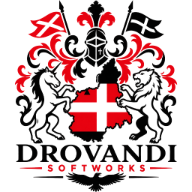
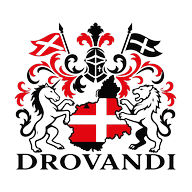
Rebranding a Lorenzo Drovandi: marca personal en primera persona y espanol neutro

diff --git a/index.html b/index.html
@@ -3,21 +3,23 @@
 <head>
   <meta charset="UTF-8" />
   <meta name="viewport" content="width=device-width, initial-scale=1.0" />
-  <title>Drovandi Softworks · Desarrollador Full-Stack · Portfolio</title>
-  <meta name="description" content="Drovandi Softworks, desarrollador full-stack especializado en software a medida, plantas de hormigón y tecnologías modernas. Proyectos, servicios y contacto." />
-  <meta name="keywords" content="Drovandi Softworks, desarrollador full-stack, portfolio, software a medida, hormigón, React, JavaScript, España" />
-  <meta name="author" content="Drovandi Softworks" />
+  <title>Lorenzo Drovandi · Desarrollador Full-Stack · Portfolio</title>
+  <meta name="description" content="Lorenzo Drovandi, desarrollador full-stack especializado en software a medida, plantas de hormigón y tecnologías modernas. Proyectos, servicios y contacto." />
+  <meta name="keywords" content="Lorenzo Drovandi, desarrollador full-stack, portfolio, software a medida, hormigón, React, JavaScript" />
+  <meta name="author" content="Lorenzo Drovandi" />
   <meta name="robots" content="index, follow" />
+  <link rel="canonical" href="https://lorenzodrovandi7.github.io/lorenzo-drovandi/" />
 
   <!-- Open Graph -->
   <meta property="og:type" content="website" />
-  <meta property="og:title" content="Drovandi Softworks · Desarrollador Full-Stack" />
+  <meta property="og:url" content="https://lorenzodrovandi7.github.io/lorenzo-drovandi/" />
+  <meta property="og:title" content="Lorenzo Drovandi · Desarrollador Full-Stack" />
   <meta property="og:description" content="Desarrollo soluciones digitales a medida que entienden los procesos reales de tu empresa." />
   <meta property="og:locale" content="es_ES" />
 
   <!-- Twitter Card -->
   <meta name="twitter:card" content="summary_large_image" />
-  <meta name="twitter:title" content="Drovandi Softworks · Desarrollador Full-Stack" />
+  <meta name="twitter:title" content="Lorenzo Drovandi · Desarrollador Full-Stack" />
   <meta name="twitter:description" content="Desarrollo soluciones digitales a medida que entienden los procesos reales de tu empresa." />
 
   <!-- Theme Color -->
@@ -33,15 +35,12 @@
   {
     "@context": "https://schema.org",
     "@type": "Person",
-    "name": "Drovandi Softworks",
+    "name": "Lorenzo Drovandi",
     "jobTitle": "Desarrollador Full-Stack",
-    "url": "https://lorenzodrovandi7.github.io/araian-softworks/",
+    "url": "https://lorenzodrovandi7.github.io/lorenzo-drovandi/",
     "email": "lorenzodrovandi17@gmail.com",
     "knowsAbout": ["Desarrollo de software", "React", "JavaScript", "PostgreSQL", "Tailwind CSS"],
-    "worksFor": {
-      "@type": "Organization",
-      "name": "Drovandi Softworks"
-    }
+    "sameAs": ["https://github.com/LorenzoDrovandi7"]
   }
   </script>
 
@@ -915,6 +914,13 @@
 </head>
 <body>
 
+<script>
+  // Restaura el tema guardado antes del primer pintado para evitar destellos.
+  try {
+    if (localStorage.getItem('ld-tema') === 'claro') document.body.classList.add('light');
+  } catch (e) {}
+</script>
+
 <div class="top-line"></div>
 <div class="gothic-particles" aria-hidden="true">
   <span></span><span></span><span></span><span></span><span></span>
@@ -928,9 +934,9 @@
 
 <!-- NAV -->
 <nav>
-  <div class="nav-logo">Drovandi Softworks</div>
+  <div class="nav-logo">Lorenzo Drovandi</div>
   <div class="nav-links">
-    <a href="#nosotros">Nosotros</a>
+    <a href="#sobre-mi">Sobre mí</a>
     <a href="#proyectos">Proyectos</a>
     <a href="#servicios">Servicios</a>
     <a href="#contacto">Contacto</a>
@@ -950,10 +956,10 @@
   <div class="hero-left">
     <p class="hero-tag">// Desarrollo de Software · Proyectos a Medida · Asesoramiento</p>
     <h1 class="hero-name">
-      Drovandi<br>
-      <span class="red">Softworks</span>
+      Lorenzo<br>
+      <span class="red">Drovandi</span>
     </h1>
-    <p class="hero-sub">Desarrollamos soluciones digitales a medida que entienden los procesos reales de tu empresa, con especialización en plantas de hormigón y tecnologías modernas.</p>
+    <p class="hero-sub">Desarrollo soluciones digitales a medida que entienden los procesos reales de cada empresa, con especialización en plantas de hormigón y tecnologías modernas.</p>
     <div class="hero-cta">
       <a href="#proyectos" class="btn-primary">Ver proyectos</a>
       <a href="#contacto" class="btn-secondary">Contactar</a>
@@ -967,7 +973,7 @@
     <div class="grid-row" style="top:25%"></div>
     <div class="grid-row" style="top:50%"></div>
     <div class="grid-row" style="top:75%"></div>
-    <img class="hero-number" src="dsvg.webp" alt="Logo de Drovandi Softworks">
+    <img class="hero-number" src="dsvg.webp" alt="Escudo de Lorenzo Drovandi">
   </div>
   <div class="scroll-indicator"><div class="scroll-line"></div><span>scroll</span></div>
 </section>
@@ -987,15 +993,15 @@
 </div>
 
 <!-- ABOUT -->
-<section class="about" id="nosotros">
+<section class="about" id="sobre-mi">
   <div class="about-text reveal">
-    <p class="section-label">// 01 — Sobre nosotros</p>
+    <p class="section-label">// 01 — Sobre mí</p>
     <h2 class="about-heading">Código que nació<br /><em>ambicioso.</em></h2>
     <p class="about-body">Soy Lorenzo Drovandi, desarrollador full-stack apasionado por construir soluciones digitales que hablan el idioma de los negocios reales: logística, producción, control y trazabilidad.<br /><br />No solo escribo código — entiendo los procesos detrás de cada empresa. Eso me permite crear herramientas que se integran de verdad con el trabajo cotidiano, reduciendo fricciones y aumentando la eficiencia operativa desde el primer día.</p>
     <div class="about-ornament">
       <div class="orn-line"></div>
       <span class="orn-diamond">◆</span>
-      <span class="orn-text">Drovandi Softworks</span>
+      <span class="orn-text">Lorenzo Drovandi</span>
       <span class="orn-diamond">◆</span>
       <div class="orn-line" style="background:linear-gradient(to left,var(--red),transparent)"></div>
     </div>
@@ -1019,7 +1025,7 @@
       <div class="stat-number">01</div>
       <div class="stat-desc">
         <div class="stat-title">Foco total en el cliente</div>
-        <div class="stat-sub">Especialización en software a medida: si lo imaginás, lo construimos.</div>
+        <div class="stat-sub">Especialización en software a medida: si lo imaginas, lo construyo.</div>
       </div>
     </div>
   </div>
@@ -1049,6 +1055,7 @@
 
 <!-- PROJECTS -->
 <section class="projects" id="proyectos">
+  <p class="section-label reveal" style="margin-bottom:1.5rem">// 02 — Proyectos</p>
   <div class="projects-header reveal">
     <h2 class="projects-title">Proyectos</h2>
     <span class="projects-count">03 iniciativas activas</span>
@@ -1058,7 +1065,7 @@
       <div class="project-index">01</div>
       <p class="project-tag">// Comunidad · Conocimiento</p>
       <h3 class="project-name">RedHormigon</h3>
-      <p class="project-desc">Red profesional para el sector del hormigón. Tenemos más de 9000 plantas registradas y un sistema para encontrar la planta más cercana a ti.</p>
+      <p class="project-desc">Red profesional para el sector del hormigón. Reúne más de 9000 plantas registradas con un sistema para encontrar la planta más cercana.</p>
       <div class="project-tech">
         <span class="tech-tag">HTML</span><span class="tech-tag">CSS</span><span class="tech-tag">JavaScript</span><span class="tech-tag">PostgreSQL</span>
       </div>
@@ -1104,7 +1111,7 @@
     <div class="service-item reveal">
       <div class="service-icon">◎</div>
       <div class="service-name">Digitalización de procesos</div>
-      <div class="service-desc">Transformamos planillas y papel en flujos digitales eficientes, trazables y seguros.</div>
+      <div class="service-desc">Transformo planillas y papel en flujos digitales eficientes, trazables y seguros.</div>
     </div>
     <div class="service-item reveal">
       <div class="service-icon">◷</div>
@@ -1119,9 +1126,8 @@
   <div class="contact-left reveal">
     <p class="section-label">// 04 — Contacto</p>
     <h2 class="contact-heading">¿Tienes un proyecto<br />en <span>mente?</span></h2>
-    <p class="contact-sub">Cuentame qué necesitás. Ya sea un desarrollo desde cero, una integración o una mejora de proceso — si tiene que ver con software, es mi territorio.</p>
+    <p class="contact-sub">Cuéntame qué necesitas. Ya sea un desarrollo desde cero, una integración o una mejora de proceso — si tiene que ver con software, es mi territorio.</p>
     <div class="contact-info">
-      <div class="contact-info-item"><span>Ubicación</span><span>España</span></div>
       <div class="contact-info-item"><span>Sector</span><span>Software · Tecnología · Hormigón</span></div>
       <div class="contact-info-item"><span>Disponible</span><span>Proyectos nuevos · Colaboraciones</span></div>
     </div>
@@ -1134,11 +1140,11 @@
       </div>
       <div class="form-group"><label class="form-label" for="iEmail">Email</label><input type="email" class="form-input" id="iEmail" name="email" placeholder="tu@email.com" required/></div>
       <div class="form-group"><label class="form-label" for="iProyecto">Tipo de proyecto</label><input type="text" class="form-input" id="iProyecto" name="proyecto" placeholder="Ej: Sistema de gestión para mi empresa"/></div>
-      <div class="form-group"><label class="form-label" for="iMensaje">Mensaje</label><textarea class="form-textarea" id="iMensaje" name="mensaje" placeholder="Contanos sobre tu proyecto o necesidad..." required></textarea></div>
+      <div class="form-group"><label class="form-label" for="iMensaje">Mensaje</label><textarea class="form-textarea" id="iMensaje" name="mensaje" placeholder="Cuéntame sobre tu proyecto o necesidad..." required></textarea></div>
       <div class="success-msg" id="successMsg">✓ Mensaje enviado. Te respondo en menos de 24h.</div>
-      <div class="error-msg" id="errorMsg">✗ Error al enviar. Intentalo de nuevo o escribime directamente a lorenzodrovandi17@gmail.com</div>
+      <div class="error-msg" id="errorMsg">✗ Error al enviar. Inténtalo de nuevo o escríbeme directamente a lorenzodrovandi17@gmail.com</div>
       <button class="form-submit" id="formSubmitBtn" type="submit">Enviar mensaje →</button>
-      <p class="form-note">Respondo en menos de 24h. Sin spam, sin vueltas. Solo trabajo real.</p>
+      <p class="form-note">Respondo en menos de 24h. Sin spam, sin rodeos. Solo trabajo serio.</p>
     </form>
   </div>
 </section>
@@ -1159,9 +1165,12 @@
 </footer>
 
 <script>
-  // THEME
+  // THEME (persistente)
   document.getElementById('themeToggle').addEventListener('click', () => {
     document.body.classList.toggle('light');
+    try {
+      localStorage.setItem('ld-tema', document.body.classList.contains('light') ? 'claro' : 'oscuro');
+    } catch (e) {}
   });
 
   // CURSOR

diff --git a/politica_privacidad.html b/politica_privacidad.html
@@ -21,9 +21,8 @@
   <h2>1. Responsable del tratamiento</h2>
   <ul>
     <li><strong>Titular:</strong> Lorenzo Drovandi</li>
-    <li><strong>Correo electrónico:</strong> [lorenzodrovandi17@gmail.com]</li>
-    <li><strong>Sitio web:</strong> [URL de tu portfolio]</li>
-    <li><strong>Domicilio:</strong> Argentina</li>
+    <li><strong>Correo electrónico:</strong> lorenzodrovandi17@gmail.com</li>
+    <li><strong>Sitio web:</strong> https://lorenzodrovandi7.github.io/lorenzo-drovandi/</li>
   </ul>
 
   <h2>2. Datos que se recogen</h2>
@@ -79,7 +78,7 @@
   <p>
     Los usuarios pueden ejercer sus derechos de acceso, rectificación, supresión, limitación y oposición contactando en:
   </p>
-  <p><strong>[lorenzodrovandi17@gmail.com]</strong></p>
+  <p><strong>lorenzodrovandi17@gmail.com</strong></p>
 
   <h2>8. Seguridad</h2>
   <p>

diff --git a/aviso_legal.html b/aviso_legal.html
@@ -19,10 +19,8 @@
   <h2>1. Datos del titular</h2>
   <ul>
     <li><strong>Titular:</strong> Lorenzo Drovandi</li>
-    <li><strong>Documento de identidad:</strong> DNI / Pasaporte</li>
-    <li><strong>Domicilio:</strong> Argentina</li>
     <li><strong>Correo electrónico:</strong> lorenzodrovandi17@gmail.com</li>
-    <li><strong>Sitio web:</strong> [URL de tu portfolio]</li>
+    <li><strong>Sitio web:</strong> https://lorenzodrovandi7.github.io/lorenzo-drovandi/</li>
   </ul>
 
   <h2>2. Objeto</h2>
@@ -87,7 +85,7 @@
   <h2>9. Contacto</h2>
   <p>
     Para cualquier consulta relacionada con este Aviso Legal, puede contactar en: <br>
-    <strong>[lorenzodrovandi17@gmail.com]</strong>
+    <strong>lorenzodrovandi17@gmail.com</strong>
   </p>
 
 </body>
